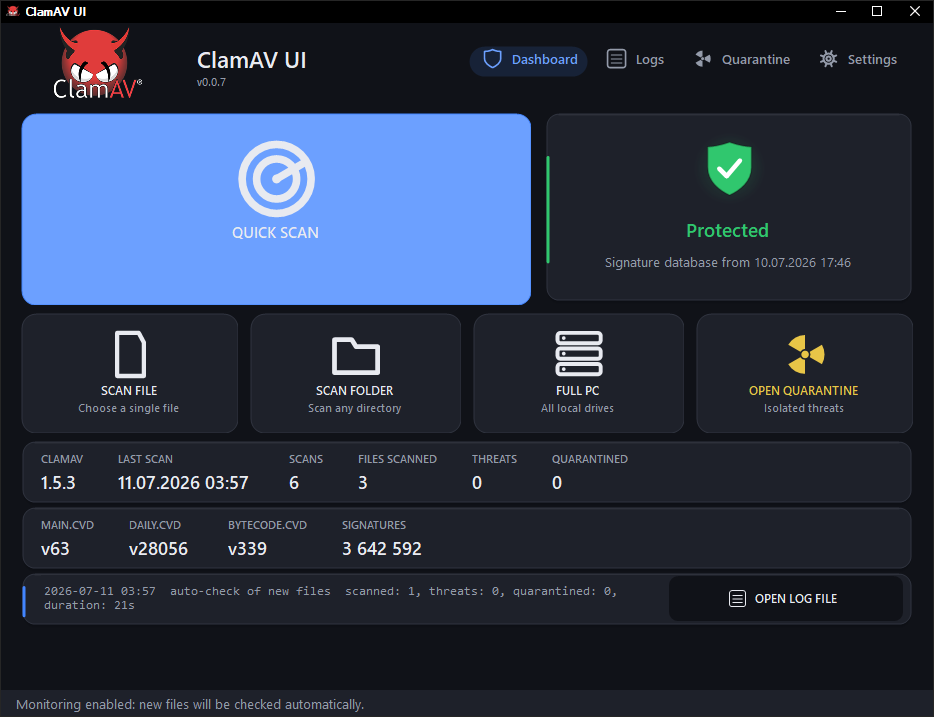
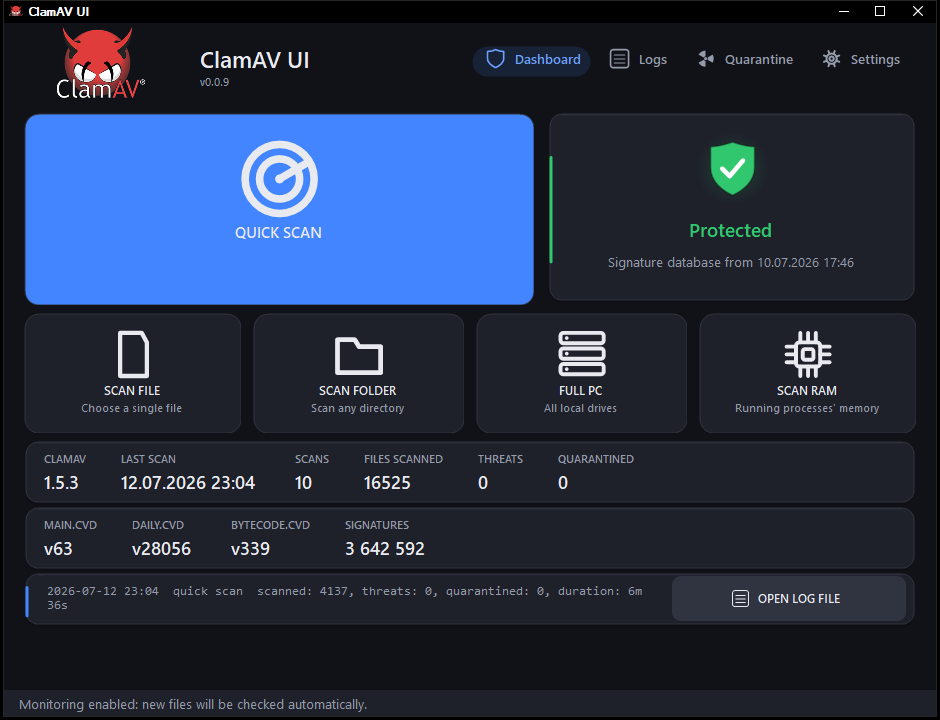
Add RAM scanning feature and update UI components for memory scan

diff --git a/src/Icons.cs b/src/Icons.cs
@@ -93,6 +93,28 @@ namespace ClamAVUI
                 }
         }
 
+        // Memory chip with pins — RAM / process-memory scan
+        public static void Memory(Graphics g, RectangleF r, Color c)
+        {
+            float w = r.Width, h = r.Height, inset = Math.Min(w, h) * 0.22f;
+            var body = new RectangleF(r.X + inset, r.Y + inset, w - inset * 2, h - inset * 2);
+            using (var pen = P(c, r, 0.09f))
+            {
+                using (var path = Theme.Round(body, body.Width * 0.14f)) g.DrawPath(pen, path);
+                var die = new RectangleF(body.X + body.Width * 0.28f, body.Y + body.Height * 0.28f,
+                    body.Width * 0.44f, body.Height * 0.44f);
+                using (var path = Theme.Round(die, die.Width * 0.18f)) g.DrawPath(pen, path);
+                for (int i = 0; i < 3; i++) // three pins per side
+                {
+                    float t = 0.32f + i * 0.18f, px = r.X + w * t, py = r.Y + h * t;
+                    g.DrawLine(pen, px, r.Y, px, body.Y);            // top
+                    g.DrawLine(pen, px, body.Bottom, px, r.Y + h);   // bottom
+                    g.DrawLine(pen, r.X, py, body.X, py);            // left
+                    g.DrawLine(pen, body.Right, py, r.X + w, py);    // right
+                }
+            }
+        }
+
         // Circular refresh arrow — update database
         public static void Refresh(Graphics g, RectangleF r, Color c)
         {

diff --git a/src/MainForm.Scan.cs b/src/MainForm.Scan.cs
@@ -357,9 +357,25 @@ namespace ClamAVUI
             ClearLog();
             AppendSection(Lang.T("title.fullScan"));
             AppendLog(string.Format(risky ? Lang.T("log.fullScanRisky") : Lang.T("log.fullScanAll"), drives), Theme.Text, "SCAN", false);
+            AppendLog(Lang.T("log.quickScanMemory"), Theme.Muted, null, true); // full scan also dumps process RAM
             AppendLog(Lang.T("log.buildingList"), Theme.Muted);
             SetBusy(true, Lang.T("status.fullScanRunning"));
-            BeginListScan(targets, risky);
+            BeginListScan(targets, risky, true);
+        }
+
+        // RAM-only scan: dumps the executable memory of every running process and
+        // scans just those — no disk walk. Catches injected/unpacked code that's
+        // masked or absent on disk, in seconds rather than a full file scan.
+        void RunMemoryScan()
+        {
+            if (scanRunning || updateRunning || clamDir == null || !DbExists()) return;
+            ResetScanState(Lang.T("desc.memScan"));
+            ClearLog();
+            AppendSection(Lang.T("btn.scanRam"));
+            AppendLog(Lang.T("log.memScanHeader"), Theme.Text, "SCAN", false);
+            AppendLog(Lang.T("log.buildingList"), Theme.Muted);
+            SetBusy(true, Lang.T("status.memScanRunning"));
+            BeginListScan(new List<string>(), true, true); // no disk roots — memory only
         }
 
         // Shared counter reset before a manual scan

diff --git a/src/Controls.cs b/src/Controls.cs
@@ -21,7 +21,6 @@ namespace ClamAVUI
         public IconDraw Icon;   // optional glyph; null = text-only button
         public bool CardStyle;  // icon centered above the text, for the big dashboard actions
         public string SubText;  // muted one-line caption under the label (card-style tiles only)
-        public int Badge;       // red counter bubble over the icon corner (0 = hidden)
         bool over, down;
         DialogResult dialogResult = DialogResult.None;
 
@@ -92,21 +91,6 @@ namespace ClamAVUI
                 float iconSize = Math.Min(Width * 0.30f, Height * 0.36f);
                 var iconRect = new RectangleF((Width - iconSize) / 2f, Height * 0.16f, iconSize, iconSize);
                 Icon(g, iconRect, fg);
-                if (Badge > 0)
-                {
-                    string txt = Badge > 99 ? "99+" : Badge.ToString();
-                    using (var bf = new Font("Segoe UI Semibold", 7.5f))
-                    {
-                        Size ts = TextRenderer.MeasureText(g, txt, bf);
-                        float bw = Math.Max(17f, ts.Width + 6f);
-                        var br = new RectangleF(iconRect.Right - bw * 0.35f, iconRect.Top - 7f, bw, 17f);
-                        using (var path = Theme.Round(br, 8.5f))
-                        using (var bb = new SolidBrush(Theme.Danger))
-                            g.FillPath(bb, path);
-                        TextRenderer.DrawText(g, txt, bf, Rectangle.Round(br), Color.White,
-                            TextFormatFlags.HorizontalCenter | TextFormatFlags.VerticalCenter | TextFormatFlags.NoPadding);
-                    }
-                }
                 int textTop = (int)(iconRect.Bottom + 10);
                 if (string.IsNullOrEmpty(SubText))
                 {

diff --git a/src/MainForm.Ui.cs b/src/MainForm.Ui.cs
@@ -294,10 +294,10 @@ namespace ClamAVUI
             dashScanAll = MakeCardButton(Lang.T("btn.scanAll"), Theme.Card, Theme.CardLine, Theme.Text, Ico.Stack);
             dashScanAll.SubText = Lang.T("btn.scanAllSub");
             dashScanAll.Click += delegate { RunFullScan(); };
-            btnQuarantine = MakeCardButton(Lang.T("btn.openQuarantine"), Theme.Card, Theme.CardLine, Theme.Warn, Ico.Radiation);
-            btnQuarantine.SubText = Lang.T("btn.quarantineSub");
-            btnQuarantine.Click += delegate { ShowPage(2); };
-            var rowTiles = new ModernButton[] { dashScanFile, dashScanFolder, dashScanAll, btnQuarantine };
+            dashScanRam = MakeCardButton(Lang.T("btn.scanRam"), Theme.Card, Theme.CardLine, Theme.Text, Ico.Memory);
+            dashScanRam.SubText = Lang.T("btn.scanRamSub");
+            dashScanRam.Click += delegate { RunMemoryScan(); };
+            var rowTiles = new ModernButton[] { dashScanFile, dashScanFolder, dashScanAll, dashScanRam };
             for (int i = 0; i < rowTiles.Length; i++)
             {
                 rowTiles[i].Dock = DockStyle.Fill;
@@ -305,7 +305,7 @@ namespace ClamAVUI
                 scanBar.Controls.Add(rowTiles[i], i, 0);
             }
             scanButtons.Add(dashScanFile);
-            scanButtons.Add(dashScanFolder); scanButtons.Add(dashScanAll);
+            scanButtons.Add(dashScanFolder); scanButtons.Add(dashScanAll); scanButtons.Add(dashScanRam);
 
             // Compact stat strip + the (conditionally visible) update button — one
             // slim row instead of the old tall SYSTEM card, which ate half the
@@ -1414,10 +1414,10 @@ namespace ClamAVUI
             dashScanFolder.SubText = Lang.T("btn.scanFolderSub");
             dashScanAll.Text = Lang.T("btn.scanAll");
             dashScanAll.SubText = Lang.T("btn.scanAllSub");
+            dashScanRam.Text = Lang.T("btn.scanRam");
+            dashScanRam.SubText = Lang.T("btn.scanRamSub");
             btnUpdate.Text = Lang.T("btn.updateDb");
             btnScanLog.Text = Lang.T("btn.openLog");
-            btnQuarantine.Text = Lang.T("btn.openQuarantine");
-            btnQuarantine.SubText = Lang.T("btn.quarantineSub");
             if (btnQuarExclusions != null) btnQuarExclusions.Text = Lang.T("btn.exclusions");
             if (btnQuarDelete != null) btnQuarDelete.Text = Lang.T("btn.deleteForever");
             if (btnQuarRestore != null) btnQuarRestore.Text = Lang.T("btn.restore");

diff --git a/src/Lang.cs b/src/Lang.cs
@@ -72,10 +72,10 @@ namespace ClamAVUI
             A("btn.scanFolderSub", "Scan any directory", "Перевірити будь-яку папку");
             A("btn.scanAll", "FULL PC", "ВЕСЬ ПК");
             A("btn.scanAllSub", "All local drives", "Усі локальні диски");
-            A("btn.quarantineSub", "Isolated threats", "Ізольовані загрози");
+            A("btn.scanRam", "SCAN RAM", "СКАН RAM");
+            A("btn.scanRamSub", "Running processes' memory", "Пам'ять запущених процесів");
             A("btn.updateDb", "UPDATE DATABASE", "ОНОВИТИ БАЗИ");
             A("btn.openLog", "OPEN LOG FILE", "ВІДКРИТИ ФАЙЛ ЖУРНАЛУ");
-            A("btn.openQuarantine", "OPEN QUARANTINE", "ВІДКРИТИ КАРАНТИН");
             A("btn.exclusions", "MANAGE EXCLUSIONS…", "КЕРУВАТИ ВИКЛЮЧЕННЯМИ…");
             A("btn.quick", "QUICK", "ШВИДКИЙ");
             A("btn.file", "FILE", "ФАЙЛ");
@@ -289,6 +289,9 @@ namespace ClamAVUI
             A("log.quickScanProcesses", "  + executables of running processes\r\n", "  + виконувані файли запущених процесів\r\n");
             A("log.quickScanMemory", "  + memory (RAM) of running processes — catches code masked on disk\r\n\r\n", "  + пам'ять (RAM) запущених процесів — ловить код, замаскований на диску\r\n\r\n");
             A("status.quickScanRunning", "Quick scan…", "Швидке сканування…");
+            A("desc.memScan", "RAM scan", "скан пам'яті");
+            A("log.memScanHeader", "RAM scan: executable memory of every running process.\r\n", "Скан RAM: виконувана пам'ять кожного запущеного процесу.\r\n");
+            A("status.memScanRunning", "Scanning RAM…", "Сканую RAM…");
             A("status.memScanning", "Scanning process memory (RAM)…", "Сканую пам'ять процесів (RAM)…");
             A("log.memScanDone", "Dumped {0} executable memory region(s) from {1} process(es) ({2}) for scanning.\r\n", "Знято {0} виконуваних ділянок пам'яті з {1} процесів ({2}) для перевірки.\r\n");
 

diff --git a/src/MainForm.Quarantine.cs b/src/MainForm.Quarantine.cs
@@ -155,11 +155,6 @@ namespace ClamAVUI
                 dbStrip.Values = vals;
                 dbStrip.Invalidate();
             }
-            if (btnQuarantine != null && btnQuarantine.Badge != q)
-            {
-                btnQuarantine.Badge = q;
-                btnQuarantine.Invalidate();
-            }
         }
 
         // Moves a file into quarantine manually (without clamscan --move) in the

diff --git a/src/MainForm.cs b/src/MainForm.cs
@@ -92,8 +92,8 @@ namespace ClamAVUI
         };
 
         // UI
-        ModernButton btnStop, btnUpdate, btnWatchDirs, btnQuarantine, btnScanLog, btnClearLog;
-        ModernButton dashQuick, dashStop, dashScanFile, dashScanFolder, dashScanAll, btnInstall, btnLangEn, btnLangUk, btnFixWinTemp, btnAbout;
+        ModernButton btnStop, btnUpdate, btnWatchDirs, btnScanLog, btnClearLog;
+        ModernButton dashQuick, dashStop, dashScanFile, dashScanFolder, dashScanAll, dashScanRam, btnInstall, btnLangEn, btnLangUk, btnFixWinTemp, btnAbout;
         ModernButton btnPerfLow, btnPerfNormal, btnPerfHigh;
         Label perfLabel, perfHint;
         ModernButton btnSchedOff, btnSchedDaily, btnSchedWeekly;

diff --git a/AGENTS.md b/AGENTS.md
@@ -59,13 +59,16 @@ lives on the UI thread — background work goes through `ThreadPool`/threads
 and marshals back with `BeginInvoke` (wrapped in `try/catch` for the
 form-already-closed case). Child processes set `SynchronizingObject = this`.
 
-Quick scan also dumps running processes' executable RAM (`MainForm.MemScan.cs`):
-best-effort `OpenProcess`/`VirtualQueryEx`/`ReadProcessMemory` P/Invoke on the
-background listing thread, writing the executable non-image regions to a temp
-folder so clamd scans code that is masked or absent on disk. Inaccessible
-(protected / higher-integrity) processes are silently skipped; dumps are
-capped (per-region and total) and cleaned up on every scan-exit path and on
-form close (`CleanupMemDumps`).
+Quick scan, full scan, and the dedicated **Scan RAM** dashboard button all dump
+running processes' executable RAM (`MainForm.MemScan.cs`): best-effort
+`OpenProcess`/`VirtualQueryEx`/`ReadProcessMemory` P/Invoke on the background
+listing thread, writing the executable non-image regions to a temp folder so
+clamd scans code that is masked or absent on disk. The three entry points share
+`BeginListScan(roots, riskyOnly, dumpMemory)` — Scan RAM (`RunMemoryScan`) passes
+empty roots so only the dumps are scanned. Inaccessible (protected /
+higher-integrity) processes are silently skipped; dumps are capped (per-region
+and total) and cleaned up on every scan-exit path and on form close
+(`CleanupMemDumps`).
 
 Scan size limits are centralized in `ScanLimitsArg(bool skipBig)` (clamscan
 args) and mirrored in `WriteClamdConf()` (clamd.conf) — keep the two in sync.

diff --git a/README.md b/README.md
@@ -27,11 +27,14 @@ anytime from Settings — no restart required.
 ## Features
 
 - Scan a file, a folder, or the **whole PC** (all local drives) via `clamscan`
+- **Scan RAM**: a dashboard button that scans **only** the live memory of every
+  running process — the executable, non-image regions are dumped and scanned,
+  catching injected or unpacked code that is masked or absent on disk. In seconds,
+  no file walk. The same memory scan also runs as part of the quick and full scans
 - **Quick scan** (minutes, not hours): risky file types in common infection
   points — Downloads, Desktop, Documents, Temp, AppData, ProgramData, startup
   folders — plus the executables of every running process **and their live
-  memory (RAM)** — the executable, non-image regions of each process are dumped
-  and scanned, catching injected or unpacked code that is masked or absent on disk
+  memory (RAM)**
 - **Scheduled quick scan**: the quick scan also runs by itself — weekly by
   default, switchable to daily or off in Settings. If the PC was off past the
   due time, the missed scan catches up a few minutes after the next start;